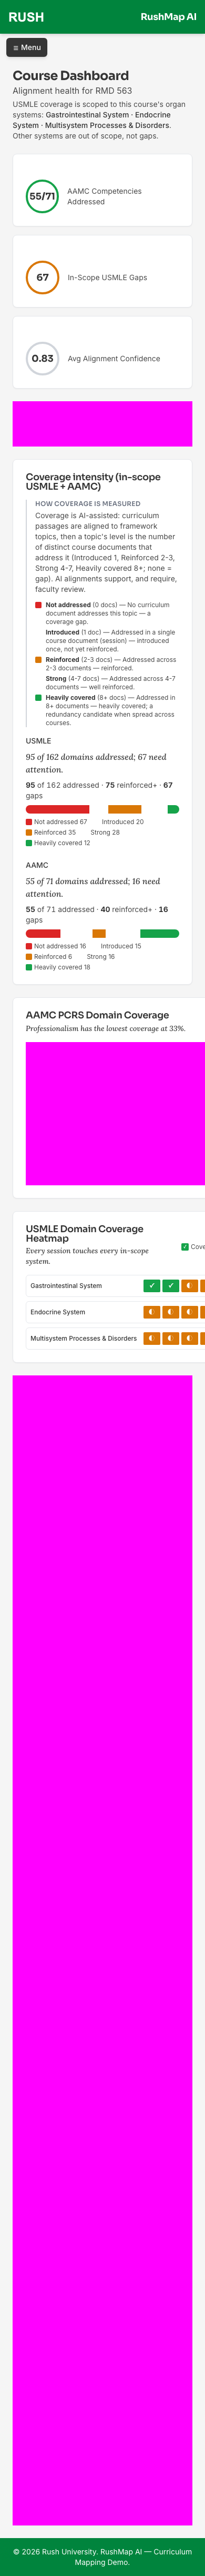
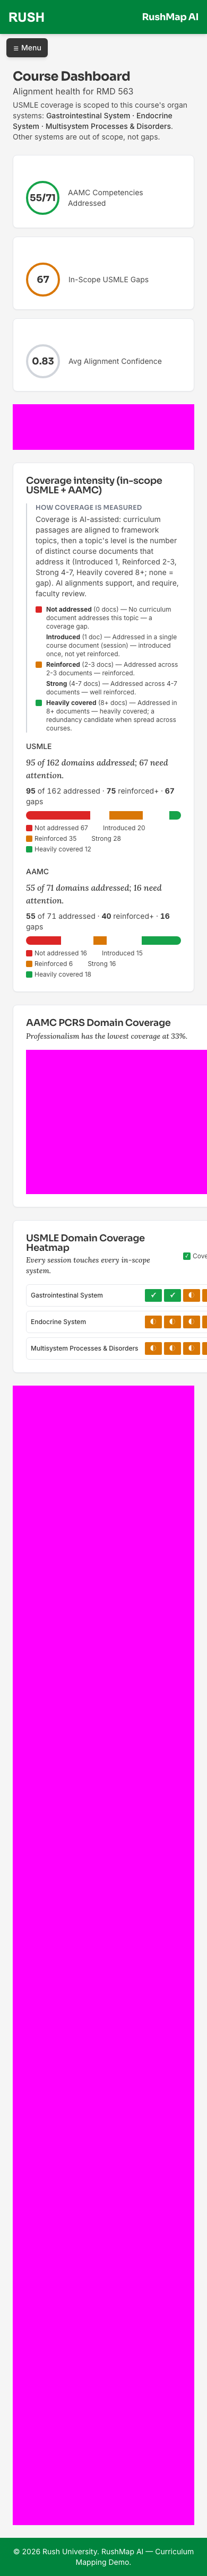
refactor: extract shared ResponsiveTable component (residual #11)
The mobile stacked-card / desktop table split (sm:hidden ul + hidden
sm:block table) was hand-rolled independently in AlignmentTable and the
gaps page's Coverage Table, flagged by the ultrareview's reuse angle as
a duplication-drift risk (the two copies had already diverged — only one
had a sticky header). CoverageHeatmap is a genuinely different shape (a
2D case x system matrix, not a list of records) and intentionally keeps
its own layout rather than being forced into this abstraction.

components/ui/responsive-table.tsx: a generic ResponsiveTable<T> taking
rows + column definitions (desktop) + a renderMobileCard callback
(mobile) + optional rowClassName/stickyHeader — maps rows once, shared
by both render paths (continues the per-row decoration hoist from the
previous commit). AlignmentTable and the Coverage Table both now use it;
neither hand-rolls its own sm:hidden/hidden:sm:block split anymore.

Verified: tsc clean, 229 unit tests, full e2e (26/26). Checked the
Coverage Table's max-h-[32rem] overflow-y-auto scroll constraint still
works post-refactor (scrollHeight 24393px vs clientHeight 512px,
properly capped) — the taller full-page screenshot is from the AAMC
section added in the prior commit, not a regression here.

Claude-Session: https://claude.ai/code/session_01TTsa2XJsrhKw6WzyYiBfeq

Changed region(s): [[0.0615, 0.0, 0.8615, 0.4042], [0.0615, 0.4353, 1.0, 0.5597]]

diff --git a/components/ui/responsive-table.tsx b/components/ui/responsive-table.tsx
@@ -1,0 +1,61 @@
+import { cn } from "@/lib/utils";
+
+/**
+ * A record list that renders as a stacked-card `<ul>` below the `sm`
+ * breakpoint and a `<table>` at `sm` and up — CSS only decides which is
+ * visible, so `rows` is mapped once and shared by both (avoids the doubled
+ * per-row computation a hand-rolled sm:hidden/hidden:sm:block split invites).
+ *
+ * Shared by AlignmentTable and the gaps page's Coverage Table, which are both
+ * "list of records" shapes. CoverageHeatmap is a 2D (case x system) matrix,
+ * a genuinely different shape, and does not use this component.
+ */
+export function ResponsiveTable<T>({
+  rows,
+  rowKey,
+  columns,
+  renderMobileCard,
+  rowClassName,
+  stickyHeader,
+}: {
+  rows: T[];
+  rowKey: (row: T) => string | number;
+  columns: { header: string; cell: (row: T) => React.ReactNode; className?: string }[];
+  renderMobileCard: (row: T) => React.ReactNode;
+  rowClassName?: (row: T) => string;
+  stickyHeader?: boolean;
+}) {
+  return (
+    <>
+      <ul className="space-y-2 sm:hidden">
+        {rows.map((row) => (
+          <li key={rowKey(row)}>{renderMobileCard(row)}</li>
+        ))}
+      </ul>
+      <div className="hidden overflow-x-auto sm:block">
+        <table className="w-full text-sm">
+          <thead className={cn(stickyHeader && "sticky top-0 bg-white")}>
+            <tr className="border-b text-left text-rush-medium">
+              {columns.map((col) => (
+                <th key={col.header} className={cn("pb-2", col.className)}>
+                  {col.header}
+                </th>
+              ))}
+            </tr>
+          </thead>
+          <tbody>
+            {rows.map((row) => (
+              <tr key={rowKey(row)} className={cn("border-b", rowClassName?.(row) ?? "border-gray-100")}>
+                {columns.map((col) => (
+                  <td key={col.header} className={cn("py-2", col.className)}>
+                    {col.cell(row)}
+                  </td>
+                ))}
+              </tr>
+            ))}
+          </tbody>
+        </table>
+      </div>
+    </>
+  );
+}

diff --git a/components/dashboard/MetricCard.tsx b/components/dashboard/MetricCard.tsx
@@ -12,6 +12,7 @@ import {
 } from "recharts";
 import { Card, CardContent, CardHeader, CardTitle } from "@/components/ui/card";
 import { Badge } from "@/components/ui/badge";
+import { ResponsiveTable } from "@/components/ui/responsive-table";
 import { confidenceBadgeClass, formatConfidence } from "@/lib/utils";
 import { aamcTakeaway, heatmapTakeaway } from "@/lib/coverage";
 
@@ -212,11 +213,25 @@ export function AlignmentTable({
         {/* Below sm: a wide table in overflow-x-auto left every row's height
             set by off-screen wrapped Domain text, so mobile showed sparse
             excerpt fragments floating in dead vertical space with no scroll
-            affordance (found in the U11 screenshot audit). Stacked cards
-            instead — same data, no horizontal scroll needed. */}
-        <ul className="space-y-3 sm:hidden">
-          {decorated.map((r) => (
-            <li key={r.id} className="rounded-md border border-gray-100 p-3 text-sm">
+            affordance (found in the U11 screenshot audit). ResponsiveTable
+            renders a stacked card list instead — same data, no horizontal
+            scroll needed. */}
+        <ResponsiveTable
+          rows={decorated}
+          rowKey={(r) => r.id}
+          columns={[
+            { header: "Excerpt", className: "max-w-xs truncate pr-4", cell: (r) => r.excerpt ?? "—" },
+            { header: "Framework", className: "pr-4", cell: (r) => r.framework },
+            { header: "Domain", className: "pr-4", cell: (r) => r.frameworkLabel },
+            {
+              header: "Confidence",
+              className: "pr-4",
+              cell: (r) => <Badge className={r.confidenceClass}>{r.confidenceLabel}</Badge>,
+            },
+            { header: "Status", className: "capitalize", cell: (r) => r.status },
+          ]}
+          renderMobileCard={(r) => (
+            <div className="rounded-md border border-gray-100 p-3 text-sm">
               <p className="text-rush-dark">{r.excerpt ?? "—"}</p>
               <p className="mt-1 text-xs text-rush-medium">
                 {r.framework} · {r.frameworkLabel}
@@ -225,35 +240,9 @@ export function AlignmentTable({
                 <Badge className={r.confidenceClass}>{r.confidenceLabel}</Badge>
                 <span className="text-xs capitalize text-rush-medium">{r.status}</span>
               </div>
-            </li>
-          ))}
-        </ul>
-        <div className="hidden overflow-x-auto sm:block">
-          <table className="w-full text-sm">
-            <thead>
-              <tr className="border-b text-left text-rush-medium">
-                <th className="pb-2 pr-4">Excerpt</th>
-                <th className="pb-2 pr-4">Framework</th>
-                <th className="pb-2 pr-4">Domain</th>
-                <th className="pb-2 pr-4">Confidence</th>
-                <th className="pb-2">Status</th>
-              </tr>
-            </thead>
-            <tbody>
-              {decorated.map((r) => (
-                <tr key={r.id} className="border-b border-gray-100">
-                  <td className="max-w-xs truncate py-2 pr-4">{r.excerpt ?? "—"}</td>
-                  <td className="py-2 pr-4">{r.framework}</td>
-                  <td className="py-2 pr-4">{r.frameworkLabel}</td>
-                  <td className="py-2 pr-4">
-                    <Badge className={r.confidenceClass}>{r.confidenceLabel}</Badge>
-                  </td>
-                  <td className="py-2 capitalize">{r.status}</td>
-                </tr>
-              ))}
-            </tbody>
-          </table>
-        </div>
+            </div>
+          )}
+        />
       </CardContent>
     </Card>
   );

diff --git a/app/courses/[courseId]/gaps/page.tsx b/app/courses/[courseId]/gaps/page.tsx
@@ -1,6 +1,7 @@
 import Link from "next/link";
 import { Button } from "@/components/ui/button";
 import { Card, CardContent, CardHeader, CardTitle } from "@/components/ui/card";
+import { ResponsiveTable } from "@/components/ui/responsive-table";
 import { suggestedGapAction } from "@/lib/gap-analyzer";
 import { getCourseSummary } from "@/lib/queries";
 import { levelLabel, levelOf } from "@/lib/coverage";
@@ -194,39 +195,28 @@ export default async function GapsPage({
         </CardHeader>
         <CardContent className="max-h-[32rem] overflow-y-auto">
           {/* Below sm: the 3-column table genuinely overflows the viewport
-              (verified: 401px table in a 292px container) — a stacked list
-              instead, no horizontal scroll needed (found in the U11
-              screenshot audit). */}
-          <ul className="space-y-2 sm:hidden">
-            {decoratedTableRows.map((row, i) => (
-              <li key={i} className={`rounded-md border-b p-2 text-sm ${row.rowClass}`}>
+              (verified: 401px table in a 292px container) — ResponsiveTable
+              renders a stacked list instead, no horizontal scroll needed
+              (found in the U11 screenshot audit). */}
+          <ResponsiveTable
+            rows={decoratedTableRows}
+            rowKey={(row) => `${row.framework}-${row.system}-${row.topic}`}
+            stickyHeader
+            rowClassName={(row) => row.rowClass}
+            columns={[
+              { header: "Topic", cell: (row) => row.cleanTopic },
+              { header: "Level", cell: (row) => row.levelText },
+              { header: "Documents", className: "font-mono", cell: (row) => row.docs },
+            ]}
+            renderMobileCard={(row) => (
+              <div className={`rounded-md border-b p-2 text-sm ${row.rowClass}`}>
                 <p>{row.cleanTopic}</p>
                 <p className="mt-1 text-xs text-rush-medium">
                   {row.levelText} · {row.docs} doc{row.docs === 1 ? "" : "s"}
                 </p>
-              </li>
-            ))}
-          </ul>
-          <div className="hidden overflow-x-auto sm:block">
-            <table className="w-full text-sm">
-              <thead className="sticky top-0 bg-white">
-                <tr className="border-b text-left">
-                  <th className="pb-2">Topic</th>
-                  <th className="pb-2">Level</th>
-                  <th className="pb-2">Documents</th>
-                </tr>
-              </thead>
-              <tbody>
-                {decoratedTableRows.map((row, i) => (
-                  <tr key={i} className={`border-b ${row.rowClass}`}>
-                    <td className="py-2">{row.cleanTopic}</td>
-                    <td className="py-2">{row.levelText}</td>
-                    <td className="py-2 font-mono">{row.docs}</td>
-                  </tr>
-                ))}
-              </tbody>
-            </table>
-          </div>
+              </div>
+            )}
+          />
         </CardContent>
       </Card>
     </div>